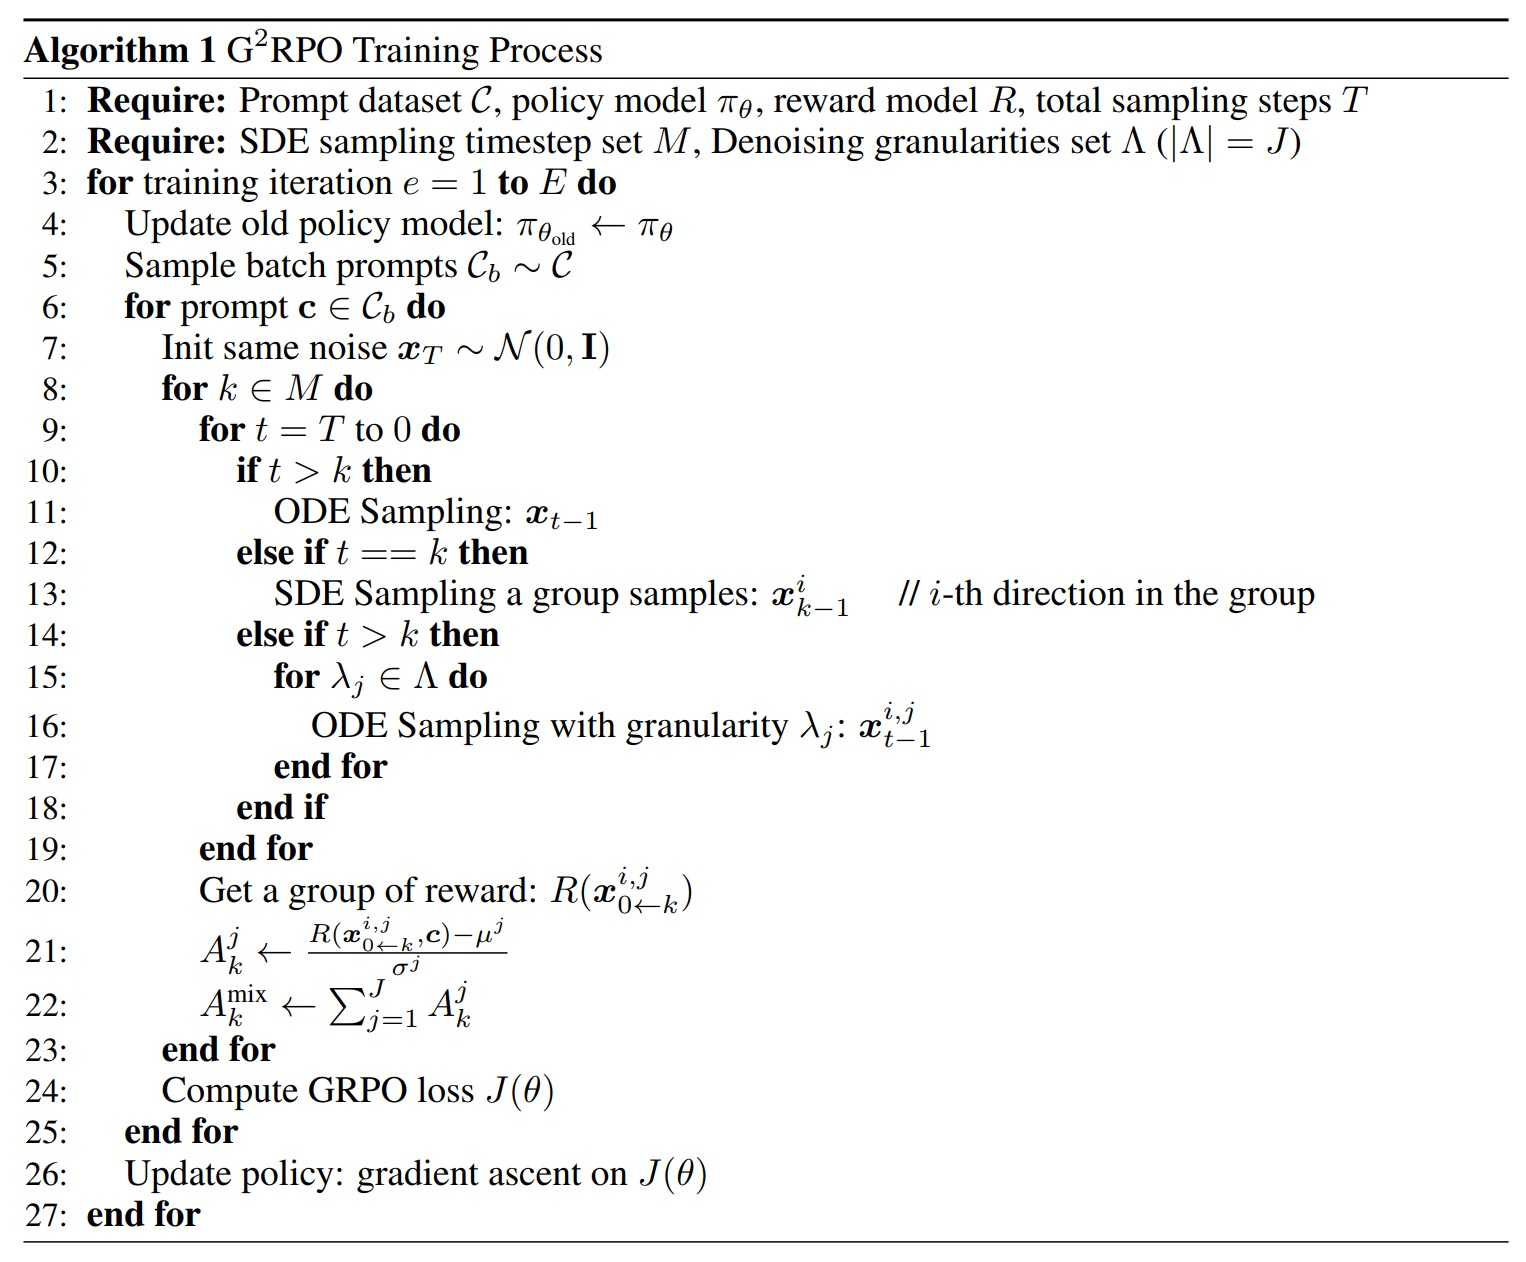
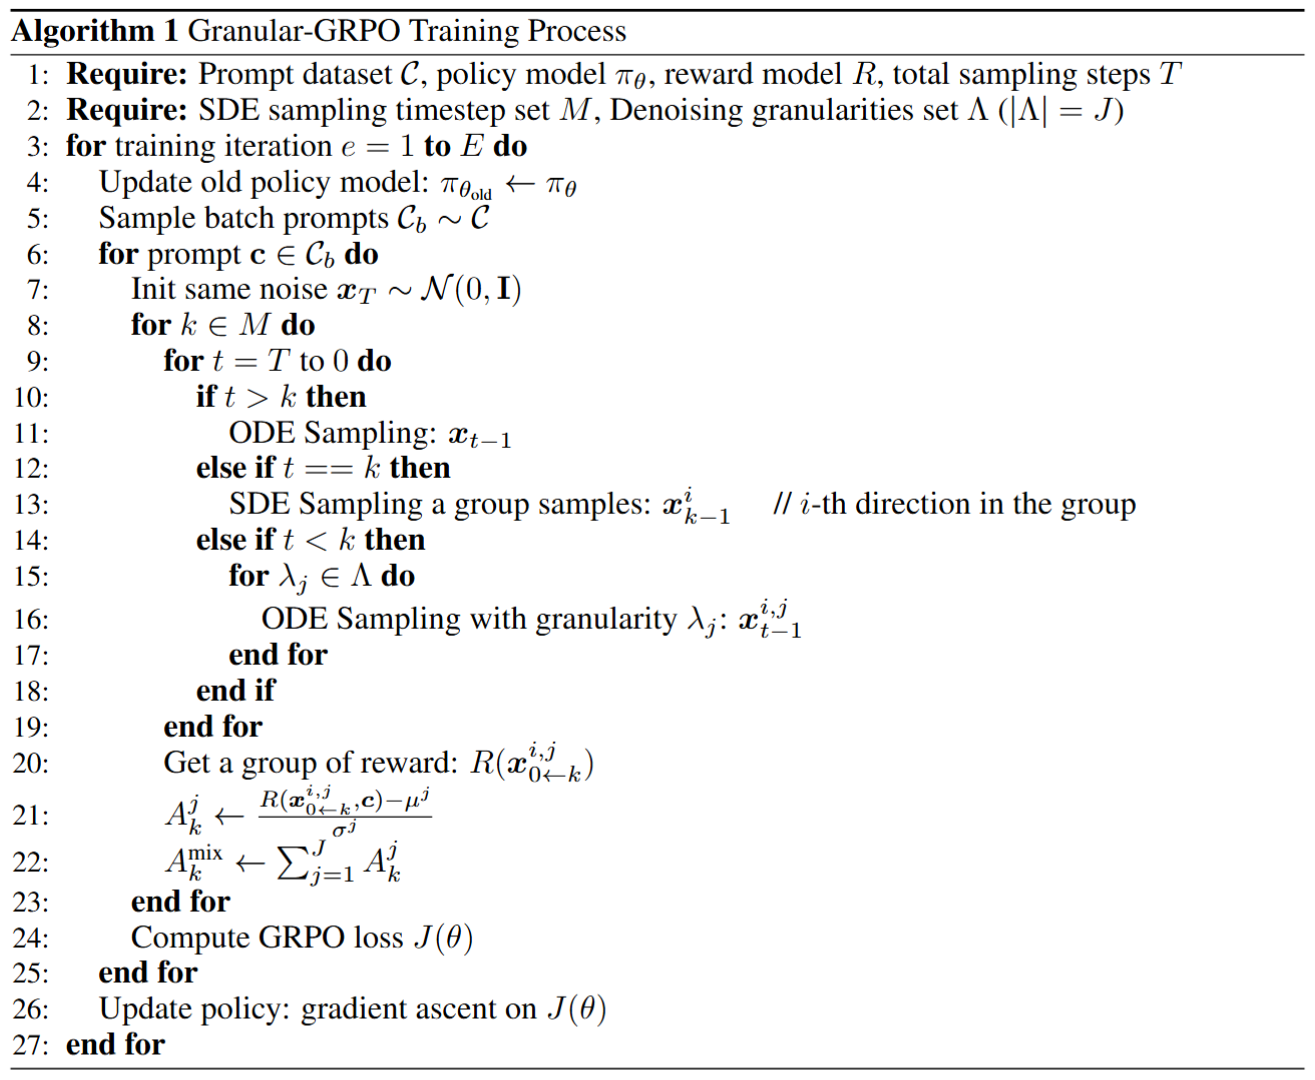
update g2rpo website

Changed region(s): [[0.0, 0.0, 0.9977, 1.0], [0.5924, 0.4583, 0.873, 0.4889]]

diff --git a/index.html b/index.html
@@ -78,6 +78,8 @@
                   <span class="author-block">
                     <a href="https://scholar.google.com/citations?user=E6zbSYgAAAAJ&hl=en" target="_blank">Guangtao Zhai</a><sup>1</sup>
                   </span>
+                  <br>
+                  <span class="paper-block">Accetped by<b style="color:#f41c1c"> CVPR 2026</b> (Main Conference Track)</span>
                   </div>
 
                   <div class="is-size-5 publication-authors">
